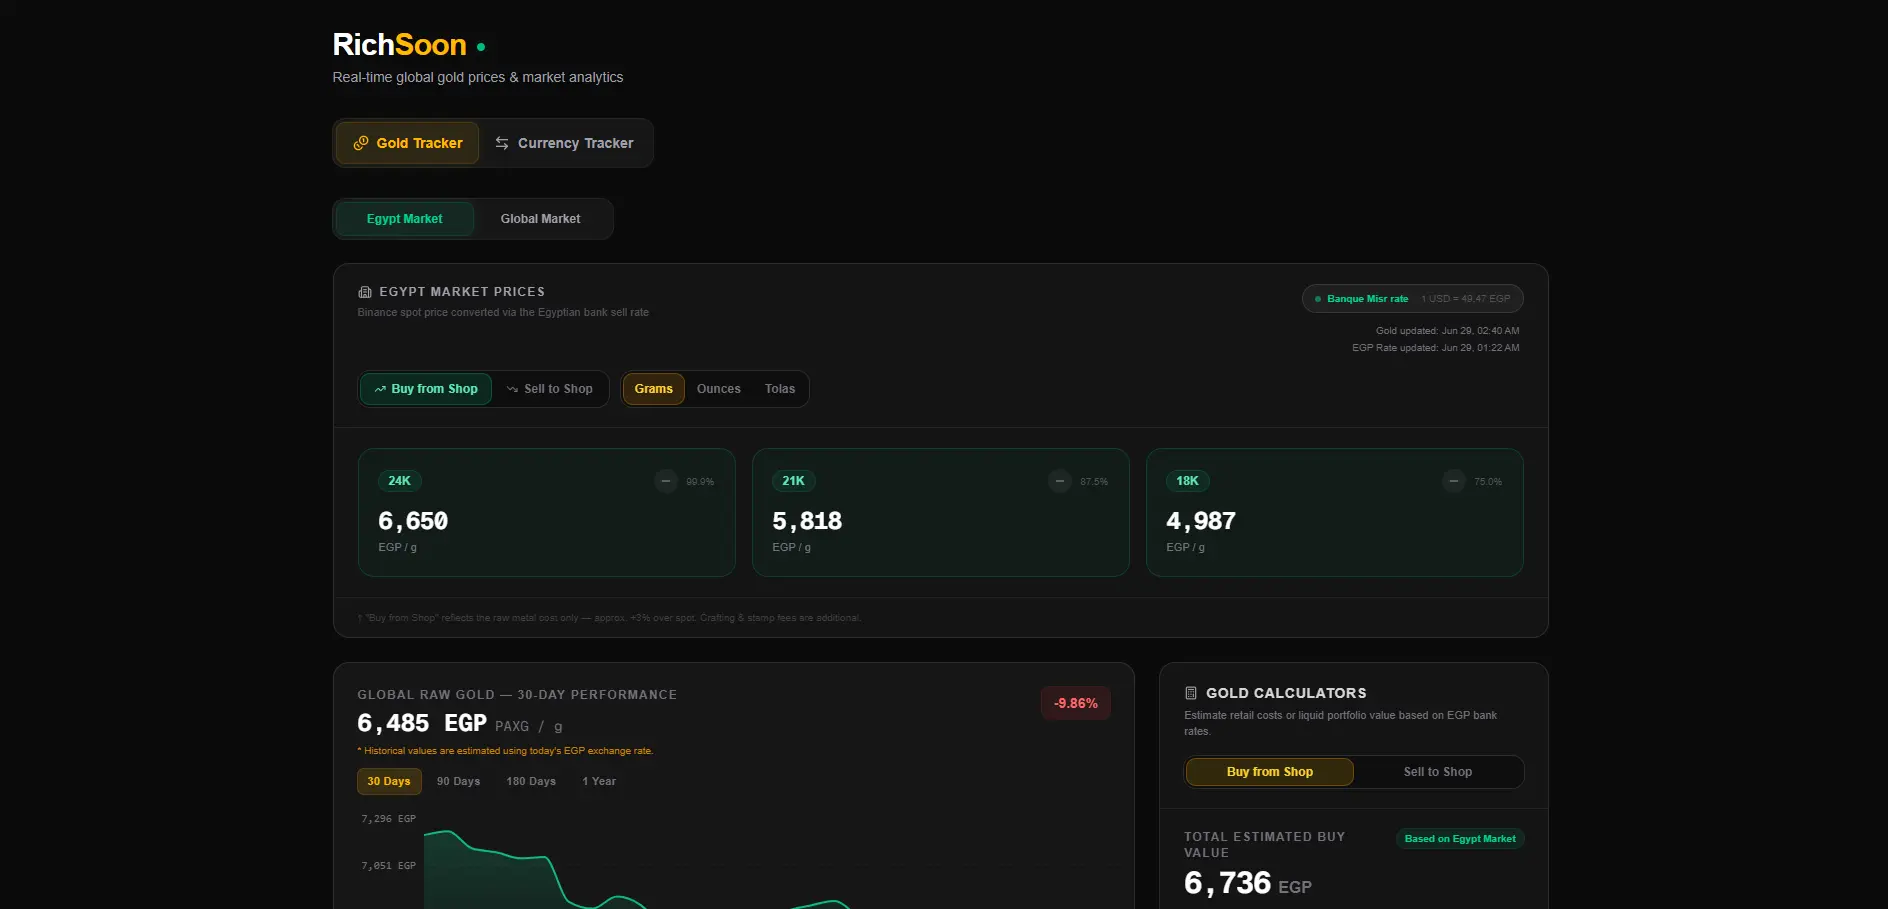
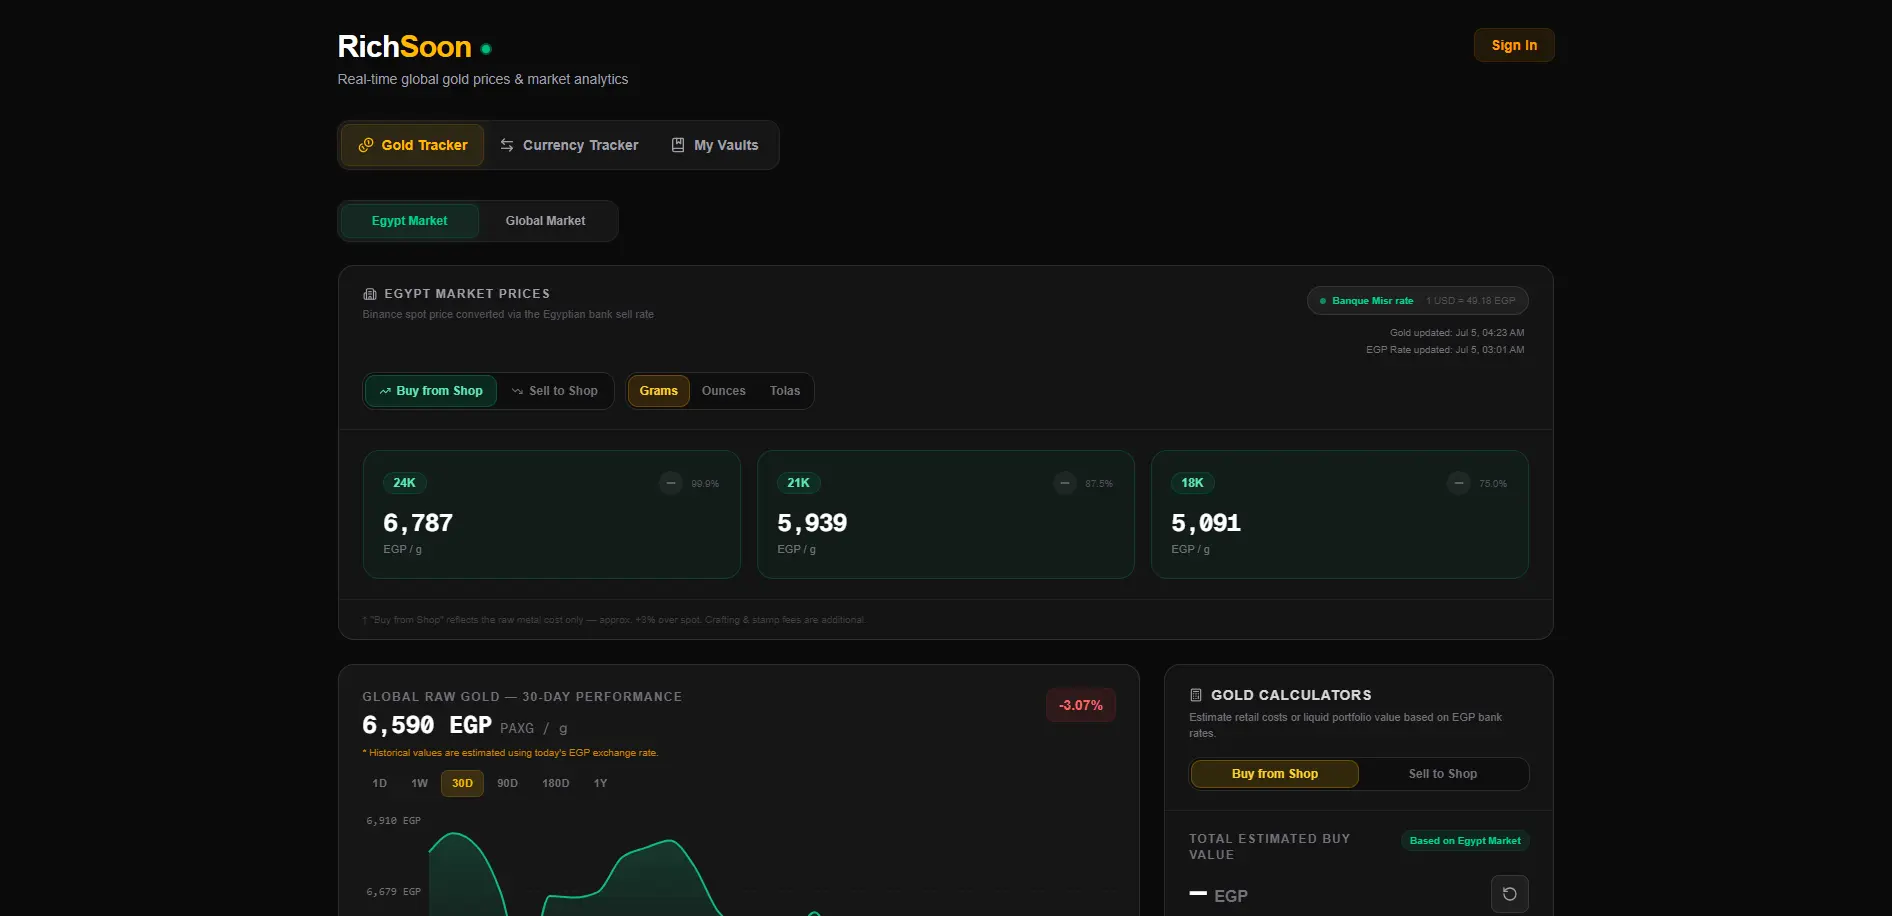
feat: update skills marquee with Supabase, improve RichSoon project description, and add marquee hover pause functionality

diff --git a/index.html b/index.html
@@ -153,34 +153,34 @@
       <div class="container">
         <div class="marquee">
           <div class="track">
-            <img src="./imgs/html.png" alt="HTML" width="128" />
-            <img src="./imgs/css.png" alt="CSS" width="128" />
-            <img src="./imgs/javascript.png" alt="JavaScript" width="128" />
-            <img src="./imgs/react.png" alt="React" width="128" />
-            <img src="./imgs/astro.png" alt="Astro" width="128" height="128" class="invertedImg" />
-            <img src="./imgs/nextjs.png" alt="Astro" width="128" height="128" class="invertedImg" />
-            <img src="./imgs/restapi.png" alt="REST API" width="128" />
-            <img src="./imgs/shadcn.png" alt="Astro" width="128" height="128" class="invertedImg" />
-            <img src="./imgs/tailwind.svg" alt="Tailwind" width="128" />
-            <img src="./imgs/bootstrap.png" alt="Bootstrap" width="128" />
-            <img src="./imgs/redux.png" alt="Redux" width="128" />
-            <img src="./imgs/vscode.png" alt="VS Code" width="128" />
-            <img src="./imgs/figma.png" alt="Figma" width="128" />
-            <img src="./imgs/github-mark.svg" alt="GitHub" width="128" class="invertedImg" />
-            <img src="./imgs/html.png" alt="HTML" width="128" />
-            <img src="./imgs/css.png" alt="CSS" width="128" />
-            <img src="./imgs/javascript.png" alt="JavaScript" width="128" />
-            <img src="./imgs/react.png" alt="React" width="128" />
-            <img src="./imgs/astro.png" alt="Astro" width="128" height="128" class="invertedImg" />
-            <img src="./imgs/nextjs.png" alt="Astro" width="128" height="128" class="invertedImg" />
-            <img src="./imgs/restapi.png" alt="REST API" width="128" />
-            <img src="./imgs/shadcn.png" alt="Astro" width="128" height="128" class="invertedImg" />
-            <img src="./imgs/tailwind.svg" alt="Tailwind" width="128" />
-            <img src="./imgs/bootstrap.png" alt="Bootstrap" width="128" />
-            <img src="./imgs/redux.png" alt="Redux" width="128" />
-            <img src="./imgs/vscode.png" alt="VS Code" width="128" />
-            <img src="./imgs/figma.png" alt="Figma" width="128" />
-            <img src="./imgs/github-mark.svg" alt="GitHub" width="128" class="invertedImg" />
+            <img src="./imgs/html.png" alt="HTML" title="HTML" width="128" />
+            <img src="./imgs/css.png" alt="CSS" title="CSS" width="128" />
+            <img src="./imgs/javascript.png" alt="JavaScript" title="JavaScript" width="128" />
+            <img src="./imgs/react.png" alt="React" title="React" width="128" />
+            <img src="./imgs/astro.png" alt="Astro" title="Astro" width="128" height="128" class="invertedImg" />
+            <img src="./imgs/nextjs.png" alt="Next.js" title="Next.js" width="128" height="128" class="invertedImg" />
+            <img src="./imgs/restapi.png" alt="REST API" title="REST API" width="128" />
+            <img src="./imgs/shadcn.png" alt="Shadcn/UI" title="Shadcn/UI" width="128" height="128" class="invertedImg" />
+            <img src="./imgs/tailwind.svg" alt="Tailwind CSS" title="Tailwind CSS" width="128" />
+            <img src="./imgs/supabase.png" alt="Supabase" title="Supabase" width="128" />
+            <img src="./imgs/redux.png" alt="Redux" title="Redux" width="128" />
+            <img src="./imgs/vscode.png" alt="VS Code" title="VS Code" width="128" />
+            <img src="./imgs/figma.png" alt="Figma" title="Figma" width="128" />
+            <img src="./imgs/github-mark.svg" alt="GitHub" title="GitHub" width="128" class="invertedImg" />
+            <img src="./imgs/html.png" alt="HTML" title="HTML" width="128" />
+            <img src="./imgs/css.png" alt="CSS" title="CSS" width="128" />
+            <img src="./imgs/javascript.png" alt="JavaScript" title="JavaScript" width="128" />
+            <img src="./imgs/react.png" alt="React" title="React" width="128" />
+            <img src="./imgs/astro.png" alt="Astro" title="Astro" width="128" height="128" class="invertedImg" />
+            <img src="./imgs/nextjs.png" alt="Next.js" title="Next.js" width="128" height="128" class="invertedImg" />
+            <img src="./imgs/restapi.png" alt="REST API" title="REST API" width="128" />
+            <img src="./imgs/shadcn.png" alt="Shadcn/UI" title="Shadcn/UI" width="128" height="128" class="invertedImg" />
+            <img src="./imgs/tailwind.svg" alt="Tailwind CSS" title="Tailwind CSS" width="128" />
+            <img src="./imgs/supabase.png" alt="Supabase" title="Supabase" width="128" />
+            <img src="./imgs/redux.png" alt="Redux" title="Redux" width="128" />
+            <img src="./imgs/vscode.png" alt="VS Code" title="VS Code" width="128" />
+            <img src="./imgs/figma.png" alt="Figma" title="Figma" width="128" />
+            <img src="./imgs/github-mark.svg" alt="GitHub" title="GitHub" width="128" class="invertedImg" />
           </div>
         </div>
       </div>
@@ -691,16 +691,17 @@
           <div class="project-content">
             <h3>RichSoon</h3>
             <p>
-              A real-time financial tracking dashboard for Egyptian and global market rates. Track live gold prices
-              (24k, 21k, 18k) per gram, compute exact crafting fees using an interactive retail calculator, and monitor
-              USD to EGP bank rates with custom trend charts. Built with
+              Real-time financial dashboard for the Egyptian gold and currency markets. Features live gold and USD/EGP
+              tracking, accurate retail calculators for local crafting fees, high-resolution charts, and authenticated
+              "Vaults" to monitor physical portfolio value. Built with
               <span class="tech">Next.js</span>,
               <span class="tech">TypeScript</span>,
-              <span class="tech">Tailwind CSS v4</span>,
-              <span class="tech">TanStack Query</span>,
+              <span class="tech">Tailwind CSS</span>,
+              <span class="tech">Supabase</span>,
               <span class="tech">Recharts</span>, and
               <span class="tech">Upstash Redis</span>.
             </p>
+
             <div class="demo-links">
               <a href="https://rich-soon.vercel.app/" target="_blank" rel="noopener noreferrer"><img
                   src="./imgs/web.png" alt="RichSoon Live" width="30" class="invertedImg" /></a>

diff --git a/styles.css b/styles.css
@@ -413,6 +413,9 @@ h1 {
             display: flex;
             gap: 10px;
 
+            &:hover {
+                animation-play-state: paused;
+            }
         }
     }
 }
